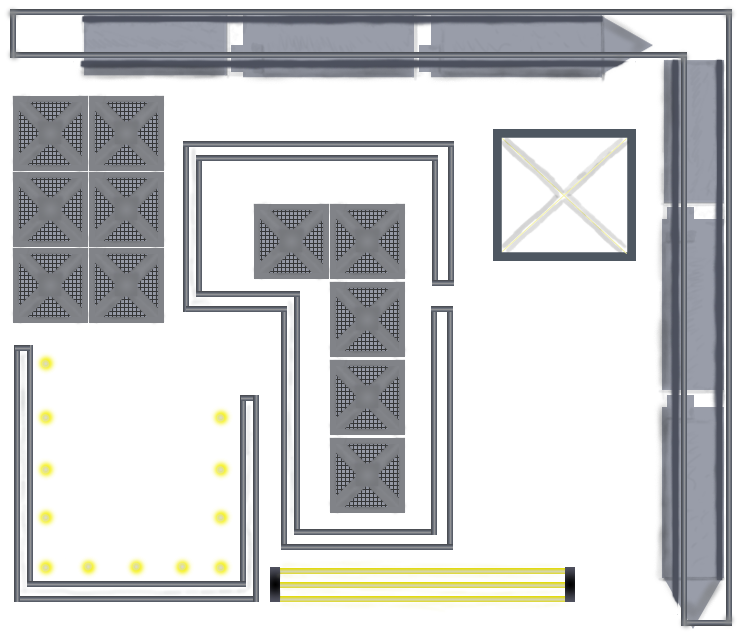
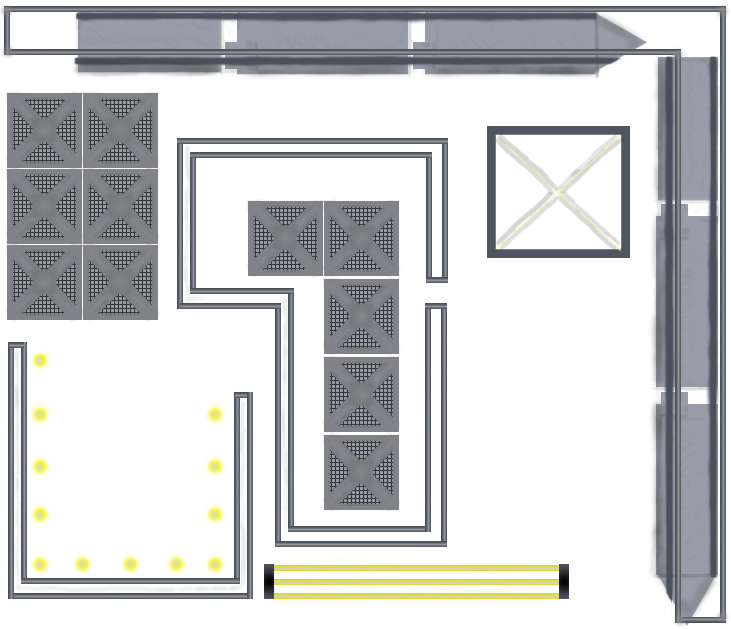
instruct scene

Changed region(s): [[0.0, 0.0, 0.9932, 0.9968]]

diff --git a/src/scenes/TowerMap.js b/src/scenes/TowerMap.js
@@ -138,4 +138,62 @@ class TowerMap {
         new Crystal(scene, 700, 512, 'stone1', 0, '1_3');
         new Crystal(scene, 700, 552, 'stone2', 0, '1_4');
     }
+    one(scene) {
+        scene.wallArray.push(new Wall(scene, 0, 0, 685, 30, 'border3', 0));    //Outer Walls
+        scene.wallArray.push(new Wall(scene, 715, 0, 1400, 30, 'border3', 0));
+        scene.wallArray.push(new Wall(scene, 0, 0, 30, 417, 'border_vert', 0));
+        scene.wallArray.push(new Wall(scene, 0, 447, 30, 864, 'border_vert', 0));
+        scene.wallArray.push(new Wall(scene, 0, 834, 685, 864, 'border2', 0));
+        scene.wallArray.push(new Wall(scene, 715, 834, 1400, 864, 'border2', 0));
+        scene.wallArray.push(new Wall(scene, 1370, 0, 1400, 417, 'border_vert', 0));
+        scene.wallArray.push(new Wall(scene, 1370, 447, 1400, 864, 'border_vert', 0));
+
+        scene.wallArray.push(new Wall(scene, 60, 60, 230, 165, 'wall_panel', 0));    //1st Row
+        scene.wallArray.push(new Wall(scene, 278, 60, 466, 159, 'wall_panel3', 0));
+        scene.wallArray.push(new Wall(scene, 496, 60, 684, 159, 'wall_panel4', 0));
+        scene.wallArray.push(new Wall(scene, 714, 60, 902, 159, 'wall_panel5', 0));
+        scene.wallArray.push(new Wall(scene, 932, 60, 1120, 159, 'wall_panel3', 0));
+        scene.wallArray.push(new Wall(scene, 1150, 60, 1340, 159, 'wall_panel4', 0));
+
+        scene.wallArray.push(new Wall(scene, 60, 189, 248, 288, 'wall_panel5', 0));    //2nd Row
+        scene.wallArray.push(new Wall(scene, 278, 189, 466, 288, 'wall_panel5', 0));
+        scene.wallArray.push(new Wall(scene, 496, 189, 684, 288, 'wall_panel', 0));
+        scene.wallArray.push(new Wall(scene, 714, 189, 902, 288, 'wall_panel4', 0));
+        scene.wallArray.push(new Wall(scene, 932, 189, 1120, 288, 'wall_panel3', 0));
+        scene.wallArray.push(new Wall(scene, 1150, 189, 1340, 288, 'wall_panel5', 0));
+
+        scene.wallArray.push(new Wall(scene, 60, 318, 248, 417, 'wall_panel5', 0));    //3rd Row
+        scene.wallArray.push(new Wall(scene, 278, 318, 466, 417, 'wall_panel4', 0));
+        scene.wallArray.push(new Wall(scene, 496, 318, 684, 417, 'wall_panel3', 0));
+        scene.wallArray.push(new Wall(scene, 714, 318, 902, 417, 'wall_panel5', 0));
+        scene.wallArray.push(new Wall(scene, 932, 318, 1120, 417, 'wall_panel', 0));
+        scene.wallArray.push(new Wall(scene, 1150, 318, 1340, 417, 'wall_panel5', 0));
+
+        scene.wallArray.push(new Wall(scene, 60, 447, 248, 546, 'wall_panel3', 0));    //4th Row
+        scene.wallArray.push(new Wall(scene, 278, 447, 466, 546, 'wall_panel4', 0));
+        scene.wallArray.push(new Wall(scene, 496, 447, 684, 546, 'wall_panel3', 0));
+        scene.wallArray.push(new Wall(scene, 714, 447, 902, 546, 'wall_panel', 0));
+        scene.wallArray.push(new Wall(scene, 932, 447, 1120, 546, 'wall_panel4', 0));
+        scene.wallArray.push(new Wall(scene, 1150, 447, 1340, 546, 'wall_panel5', 0));
+
+        scene.wallArray.push(new Wall(scene, 60, 576, 248, 675, 'wall_panel4', 0));    //5th Row
+        scene.wallArray.push(new Wall(scene, 278, 576, 466, 675, 'wall_panel5', 0));
+        scene.wallArray.push(new Wall(scene, 496, 576, 684, 675, 'wall_panel3', 0));
+        scene.wallArray.push(new Wall(scene, 714, 576, 902, 675, 'wall_panel5', 0));
+        scene.wallArray.push(new Wall(scene, 932, 576, 1120, 675, 'wall_panel', 0));
+        scene.wallArray.push(new Wall(scene, 1150, 576, 1340, 675, 'wall_panel4', 0));
+
+        scene.wallArray.push(new Wall(scene, 60, 705, 248, 804, 'wall_panel5', 0));    //6th Row
+        scene.wallArray.push(new Wall(scene, 278, 705, 466, 804, 'wall_panel4', 0));
+        scene.wallArray.push(new Wall(scene, 496, 705, 684, 804, 'wall_panel', 0));
+        scene.wallArray.push(new Wall(scene, 714, 705, 902, 804, 'wall_panel3', 0));
+        scene.wallArray.push(new Wall(scene, 932, 705, 1120, 804, 'wall_panel4', 0));
+        scene.wallArray.push(new Wall(scene, 1150, 705, 1340, 804, 'wall_panel', 0));
+
+        scene.guardArray.push(new Guard(scene, 481, 303, 'guard', 0, [['up', 45], ['left', 45], ['down', 303], ['right', 481]]));
+        scene.guardArray.push(new Guard(scene, 1355, 303, 'guard', 0, [['up', 45], ['left', 917], ['down', 303], ['right', 1355]]));
+        scene.guardArray.push(new Guard(scene, 917, 561, 'guard', 0, [['up', 303], ['left', 481], ['down', 561], ['right', 917]]));
+        scene.guardArray.push(new Guard(scene, 481, 819, 'guard', 0, [['up', 561], ['left', 45], ['down', 819], ['right', 481]]));
+        scene.guardArray.push(new Guard(scene, 1355, 819, 'guard', 0, [['up', 561], ['left', 917], ['down', 819], ['right', 1355]]));
+    }
 }

diff --git a/src/scenes/Menu.js b/src/scenes/Menu.js
@@ -18,7 +18,8 @@ class Menu extends Phaser.Scene {
         this.add.sprite(700,430,"intro");
         new Button(this, 200, 432, 'credits', 0, '', '36px', 'gotoCredits').setOrigin(0.5, 0.5).setInteractive({useHandCursor: true});
         new Button(this, 680, 432, 'play', 0, '', '36px', 'gotoPlay').setOrigin(0.5, 0.5).setInteractive({useHandCursor: true});
-        new Button(this, 1200, 432, 'rules', 0, '', '20px', 'gotoDevPlay').setOrigin(0.5, 0.5).setInteractive({useHandCursor: true});
+        //new Button(this, 1200, 432, 'rules', 0, '', '20px', 'gotoDevPlay').setOrigin(0.5, 0.5).setInteractive({useHandCursor: true});
+        new Button(this, 1200, 432, 'rules', 0, '', '20px', 'gotoInstructions').setOrigin(0.5, 0.5).setInteractive({useHandCursor: true});
         
 
         this.input.on('gameobjectup', (pointer, gameObject, event) => {

diff --git a/src/scenes/Instructions.js b/src/scenes/Instructions.js
@@ -3,7 +3,17 @@ class Instructions extends Phaser.Scene {
         super("instructionsScene");
     }
 
+    preload() {
+        this.load.image('instructions', './assets/instruct.png');
+        this.load.image('menu_button', './assets/menu_button.png');
+    }
+    
     create() {
-        
+        this.add.sprite(700,430,"instructions");
+        new Button(this, 700, 780, 'menu_button', 0, '', '36px', 'gotoMenu').setOrigin(0.5, 0.5).setInteractive({useHandCursor: true});
+
+        this.input.on('gameobjectup', (pointer, gameObject, event) => {
+            gameObject.push();
+        });
     }
 }
